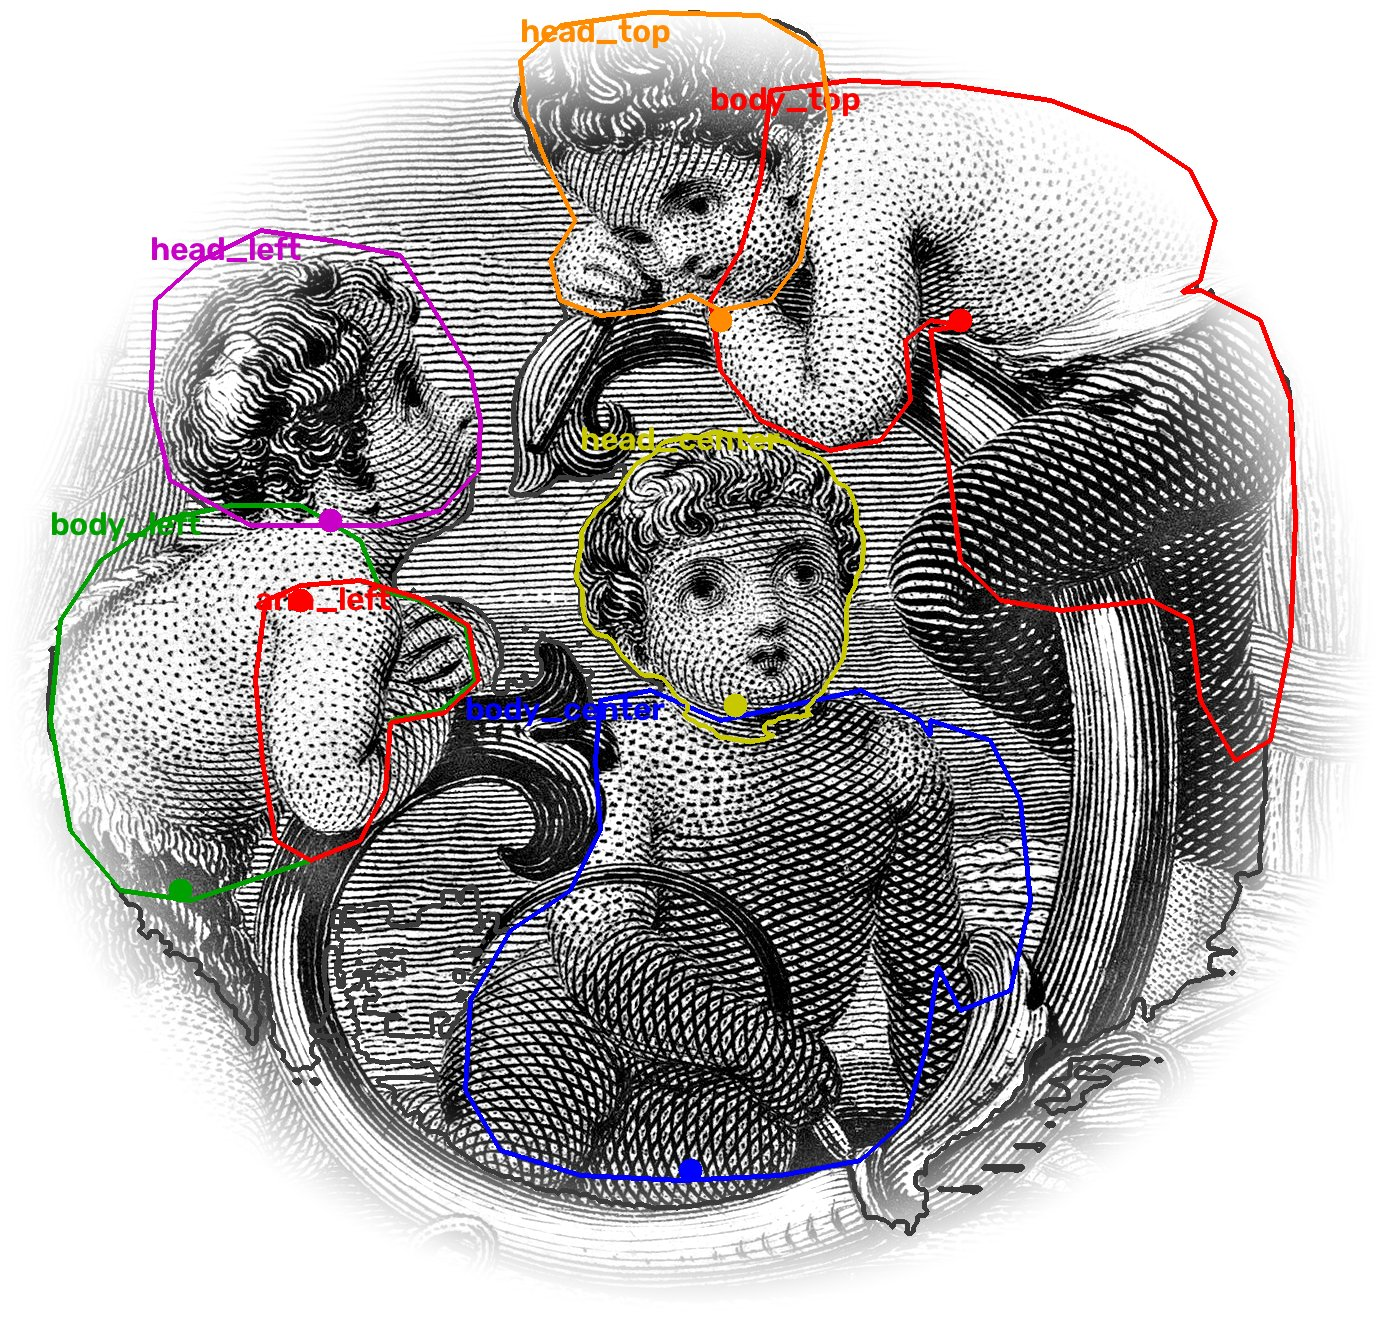
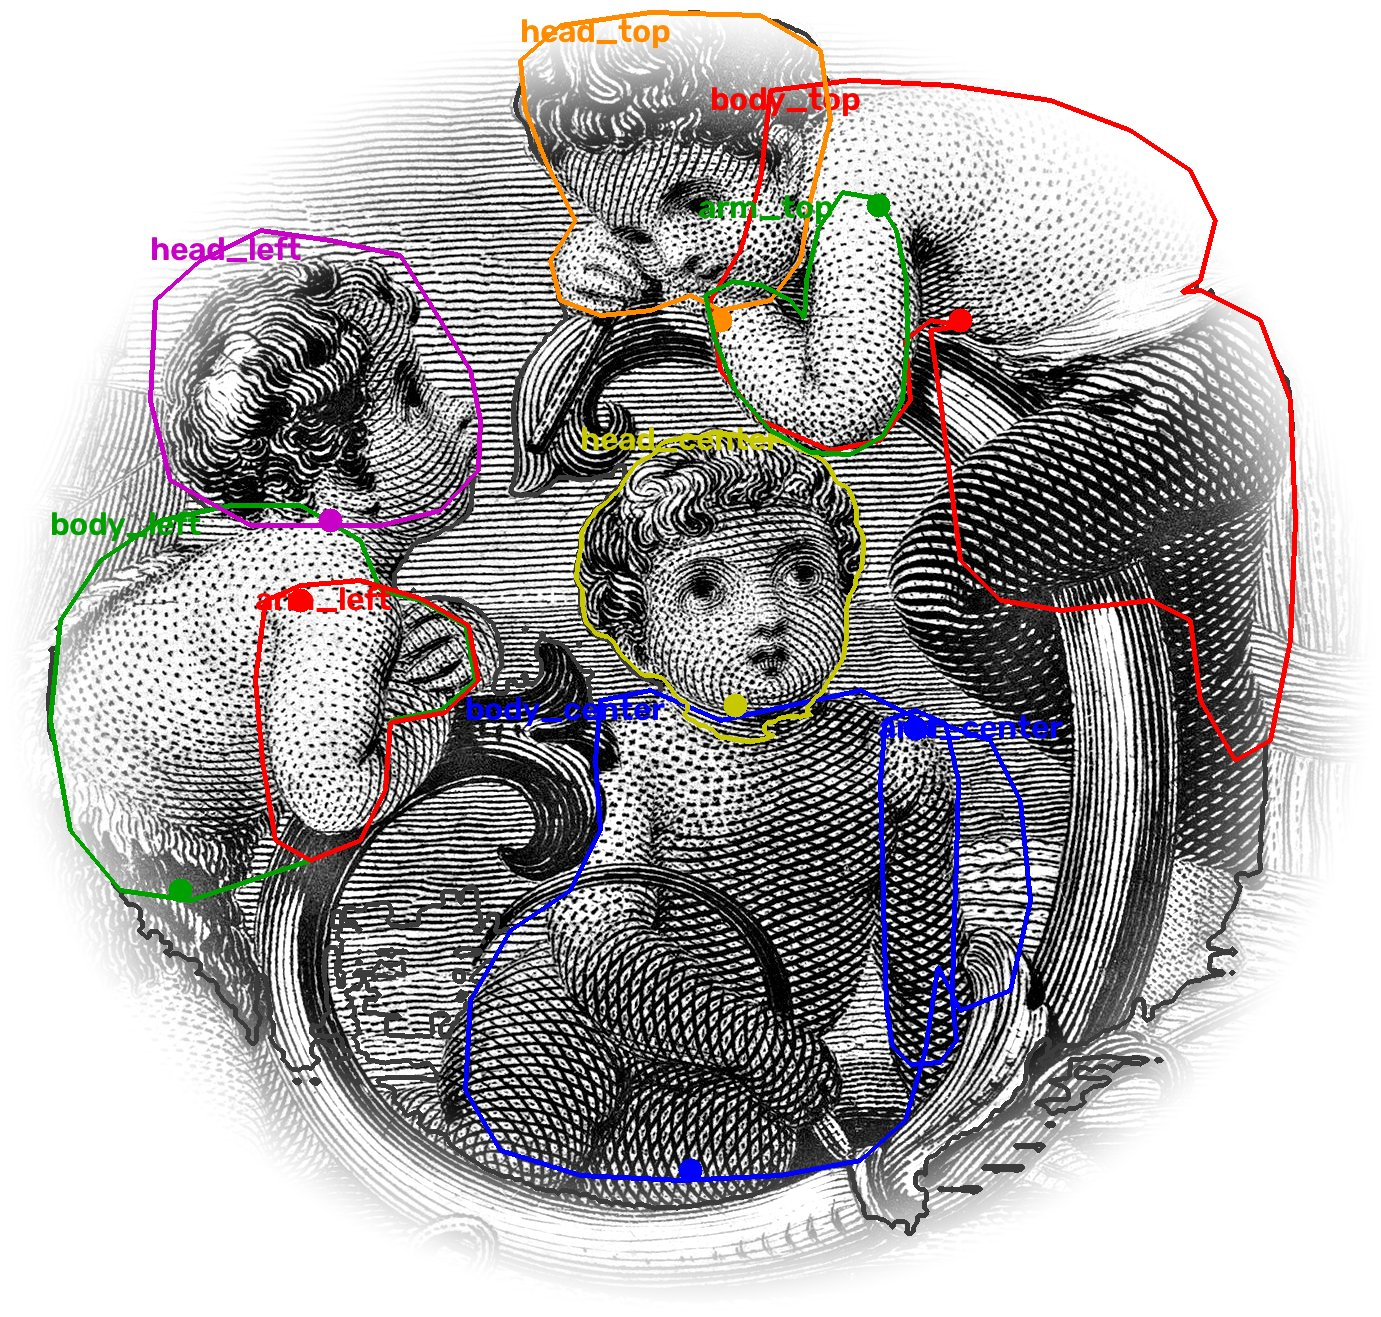
C5: every cherub points (the top and centre cherubs' arms cut and posed)
Claude-Session: https://claude.ai/code/session_01HwXW45SByNLiCaCEmBNAF9

diff --git a/scenes/blender/c2_poses.py b/scenes/blender/c2_poses.py
@@ -38,7 +38,9 @@ POSES = {
     "cherubs": [("rest", {}),
                 ("heads turned left", {"head_top": 20, "head_left": 20, "head_center": 20}),
                 ("heads turned right", {"head_top": -20, "head_left": -20, "head_center": -20}),
-                ("swaying, arm lifted", {"body_top": 6, "body_left": -8, "body_center": 8, "arm_left": -40})],
+                ("swaying, arm lifted", {"body_top": 6, "body_left": -8, "body_center": 8, "arm_left": -40}),
+                ("C5: every cherub points (full swing)", {"arm_left": -40, "arm_top": 30, "arm_center": 55}),
+                ("C5 test: top arm +18", {"arm_top": 18})],
 }
 
 scene = S.setup(w, h, samples, 1)
@@ -46,6 +48,8 @@ S.sheet(cert)
 S.desk()
 S.lights()
 P.print_piece("laborer", layout["laborer"], src=S.LOOK["laborer_ink"])
+ONLY = args[5:]  # optional: only these figures
+POSES = {n: ps for n, ps in POSES.items() if not ONLY or n in ONLY}
 pup = {n: P.build(n, layout[n]) for n in POSES}
 P.build("cherubs", layout["cherubs_mirror"], mirror=True)
 scene.render.image_settings.file_format = "PNG"

diff --git a/scenes/blender/animatic.py b/scenes/blender/animatic.py
@@ -859,6 +859,8 @@ def cherub_pose(t, mirror):
         a = T[sid]
         point = max(point, ramp(t, a, a + 0.3) * (1 - ramp(t, a + 3.8, a + 4.3)))
     out["arm_left"] = -40 * point
+    out["arm_top"] = 30 * point     # C5: the other two point too (brief: "every cherub points")
+    out["arm_center"] = 55 * point
     return out
 
 

diff --git a/log/production_log.md b/log/production_log.md
@@ -510,3 +510,14 @@ Append-only. One entry per action: timestamp, step (shot ID where relevant), wha
   - `scripts/gold_sheet.py` → `renders/c1/certificate_v05/sheet_gold.png`: the same mix as a picture, for S37's clipped coupons, which are cut from the print;
   - `scripts/animatic_assemble.py`: the C4 caption notes for S36 and S06 are dropped, now that both exist.
 - **Checked:** 720p stills at 98.3, 99.2, 100.0, 102.0 and 226.6 s (`renders/c5/gold_check_v1`).
+
+## 2026-10-26T10:39:20-04:00 — C5: every cherub points
+
+- **Why:** the brief's "every cherub points" (S17, S27, S42); at C4 only the left cherub had an arm cut (c4_review open question 3).
+- **New cuts (`config/puppets.json`):**
+  - `arm_top`: the top cherub's arm, shoulder to elbow and back up toward the chin, pivoting at the shoulder (878, 205). The hand under its cheek stays with the head.
+  - `arm_center`: the centre cherub's hanging arm with its whole hand, pivoting at the shoulder (915, 728). The first cut ended at y 1016 and left the hand on the hoop at full swing (checked on a pose render); it now runs to 1064.
+- **Pointing (`scenes/blender/animatic.py`):** left −40° (as at C4), top +30°, centre +55°. On the pose sheet, the top arm at ±55° crooked into the legs or doubled over the face, so it lifts less. The centre arm at −55° folded across the chest; at +55° it reaches out.
+- **Known:** small synthesis artifacts where the arms hung (a dark mark at the centre cherub's hip); they don't show in the wide shots where the cherubs point.
+- **Commands:** `.venv/bin/python -I scripts/segment.py cherubs`; `… puppet_build.py cherubs` (2.5 min); `blender … c2_poses.py -- renders/c1/certificate_v05 renders/c5/cherub_poses 1280 720 16 cherubs` (`c2_poses.py` now takes optional figure names); stills at the three cues (`renders/c5/cherub_point_v1`).
+- **Outputs:** `assets/puppets/cherubs` (the one-armed C4 build is archived as `archive/puppets/cherubs_c4_one-arm`).
